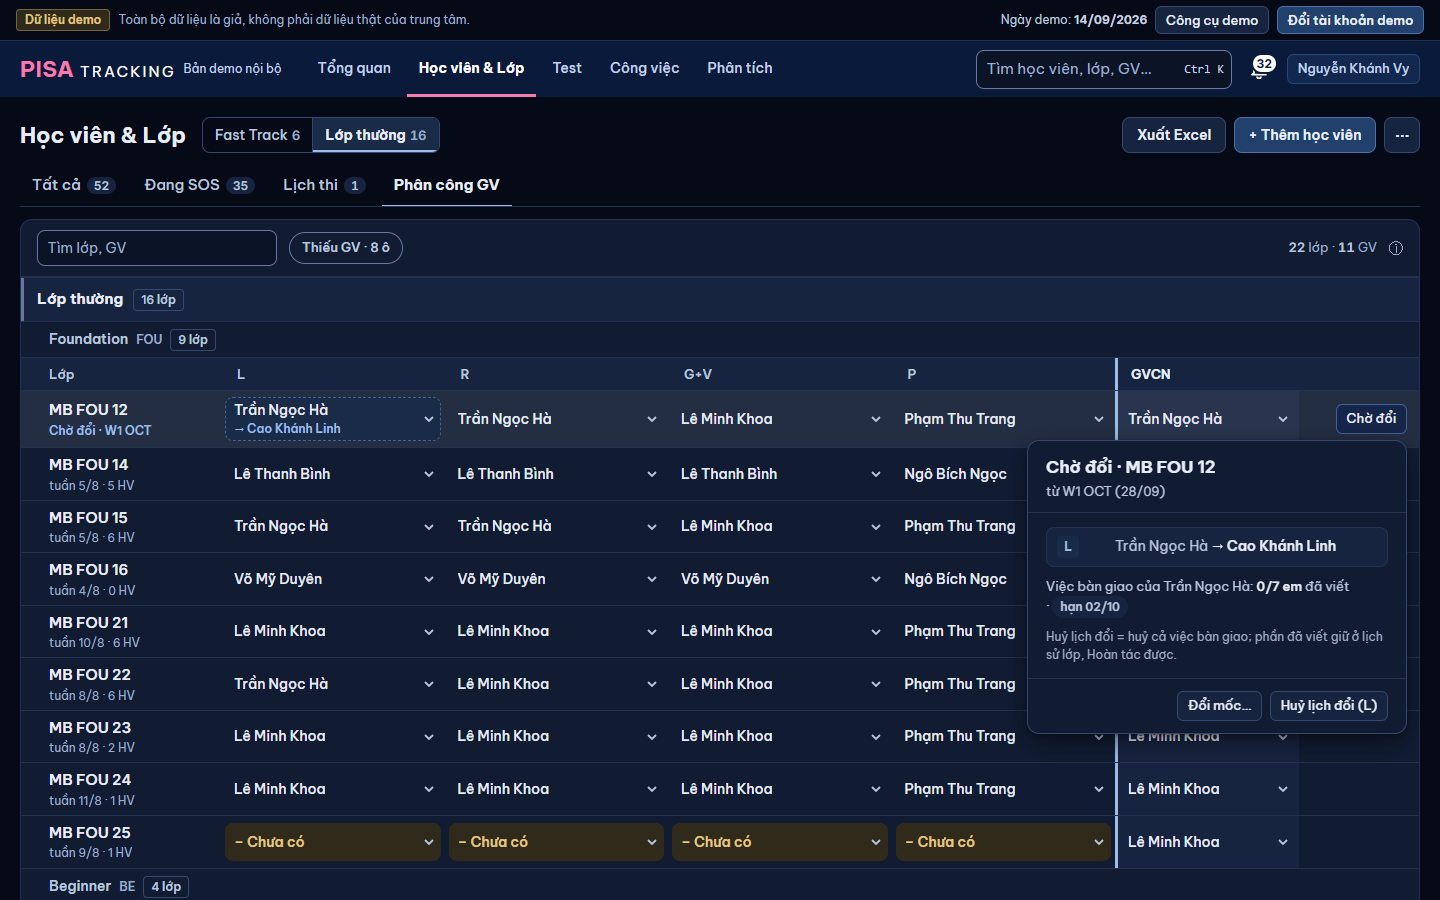
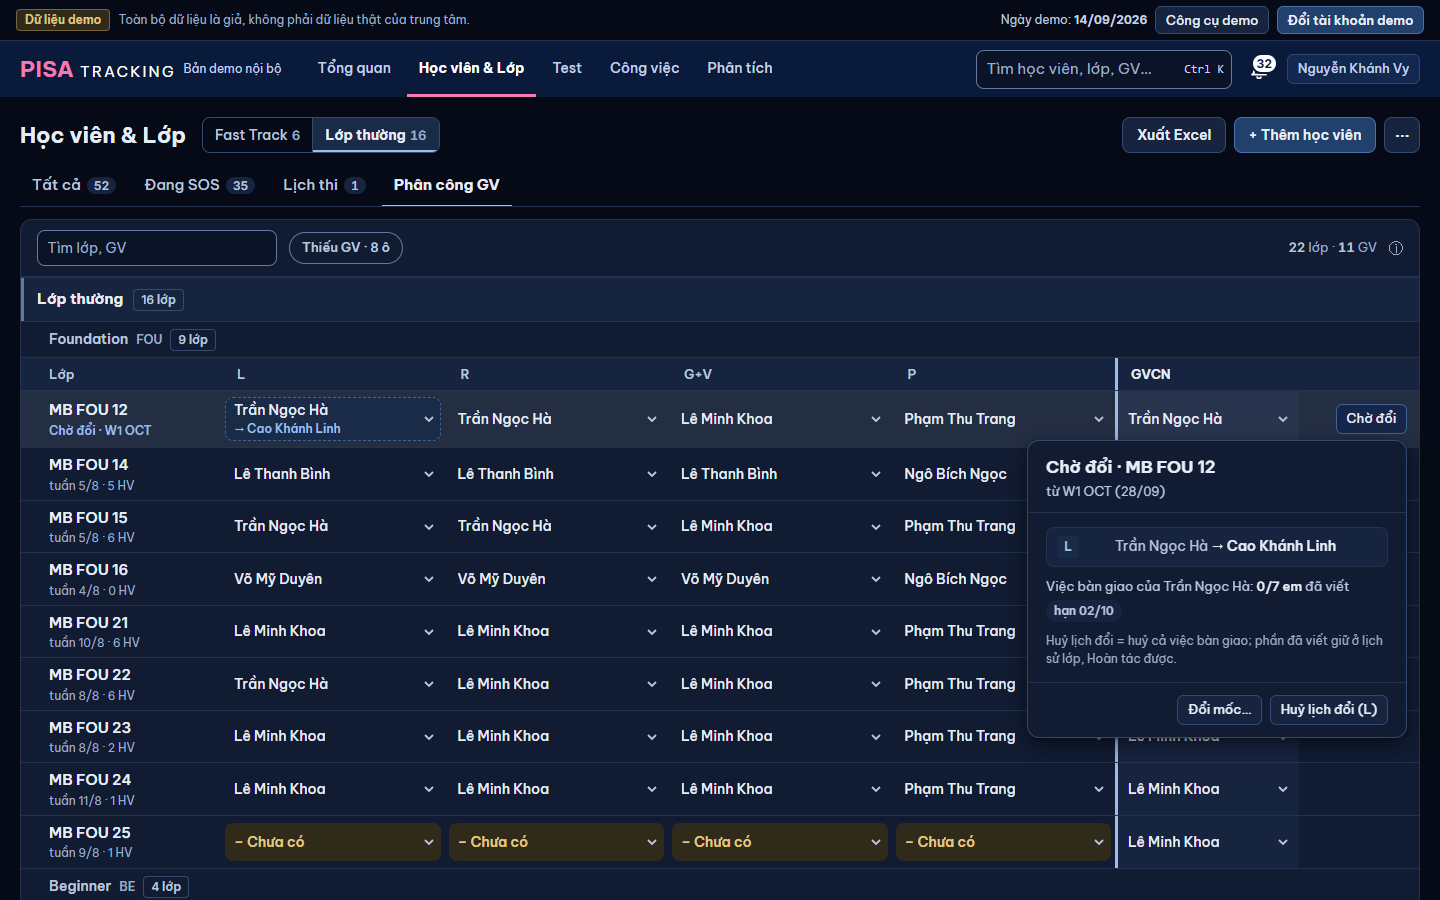
Hộp Chờ đổi: bỏ dấu · trước viên hạn, viên xuống dòng sát lề

Changed region(s): [[0.7188, 0.7467, 0.9688, 0.84], [0.7188, 0.6533, 0.9688, 0.7467]]

diff --git a/web/src/modules/classes/HopLuuPhanCong.tsx b/web/src/modules/classes/HopLuuPhanCong.tsx
@@ -302,8 +302,9 @@ export function HopChoDoi({ code, cho, nhanO, ten, neoEl, tamDuoi, onDong, onXon
         </div>
         {/* Mockup v9 khu 5: "Việc bàn giao của A: a/b em đã viết · hạn" — một dòng mỗi việc (các cặp cùng GV cũ chung một việc). */}
         {[...new Map(cho.filter((c) => c.banGiao).map((c) => [c.banGiao!.id, c] as const)).values()].map((c) => (
-          <div key={c.banGiao!.id} className="pc-ket-bg">
-            <span>{t('Việc bàn giao của {gv}:', { gv: ten(c.nguoiCu) })} <b>{t('{a}/{b} em', { a: c.banGiao!.du, b: c.banGiao!.tong })}</b> {t('đã viết')} <span className="whitespace-nowrap">· <span className="pc-han">{t('hạn {ngay}', { ngay: ngay(c.banGiao!.han, hn) })}</span></span></span>
+          <div key={c.banGiao!.id} className="pc-ket-bg flex-wrap gap-y-1">
+            <span>{t('Việc bàn giao của {gv}:', { gv: ten(c.nguoiCu) })} <b>{t('{a}/{b} em', { a: c.banGiao!.du, b: c.banGiao!.tong })}</b> {t('đã viết')}</span>
+            <span className="pc-han">{t('hạn {ngay}', { ngay: ngay(c.banGiao!.han, hn) })}</span>
           </div>
         ))}
         {doiMoc && <ChonHieuLuc loai={loai} tuan={tuan} homNay={hn} onLoai={setLoai} onTuan={setTuan} />}
